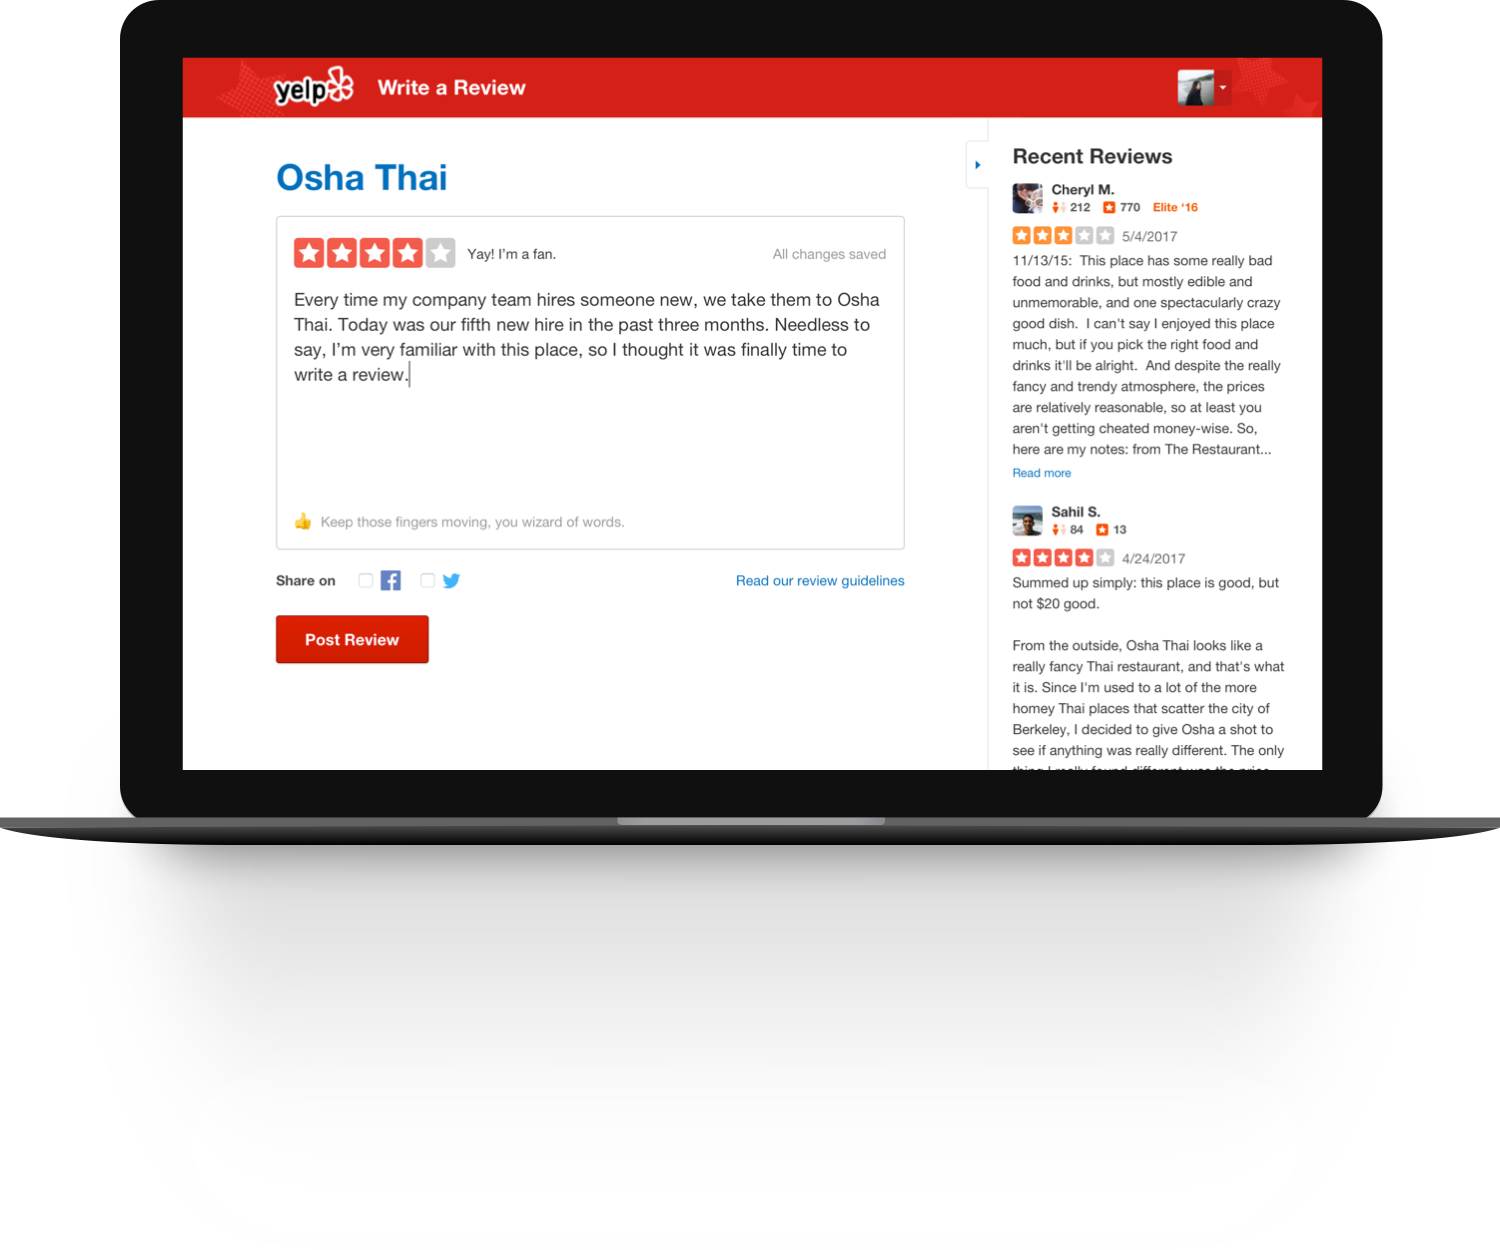
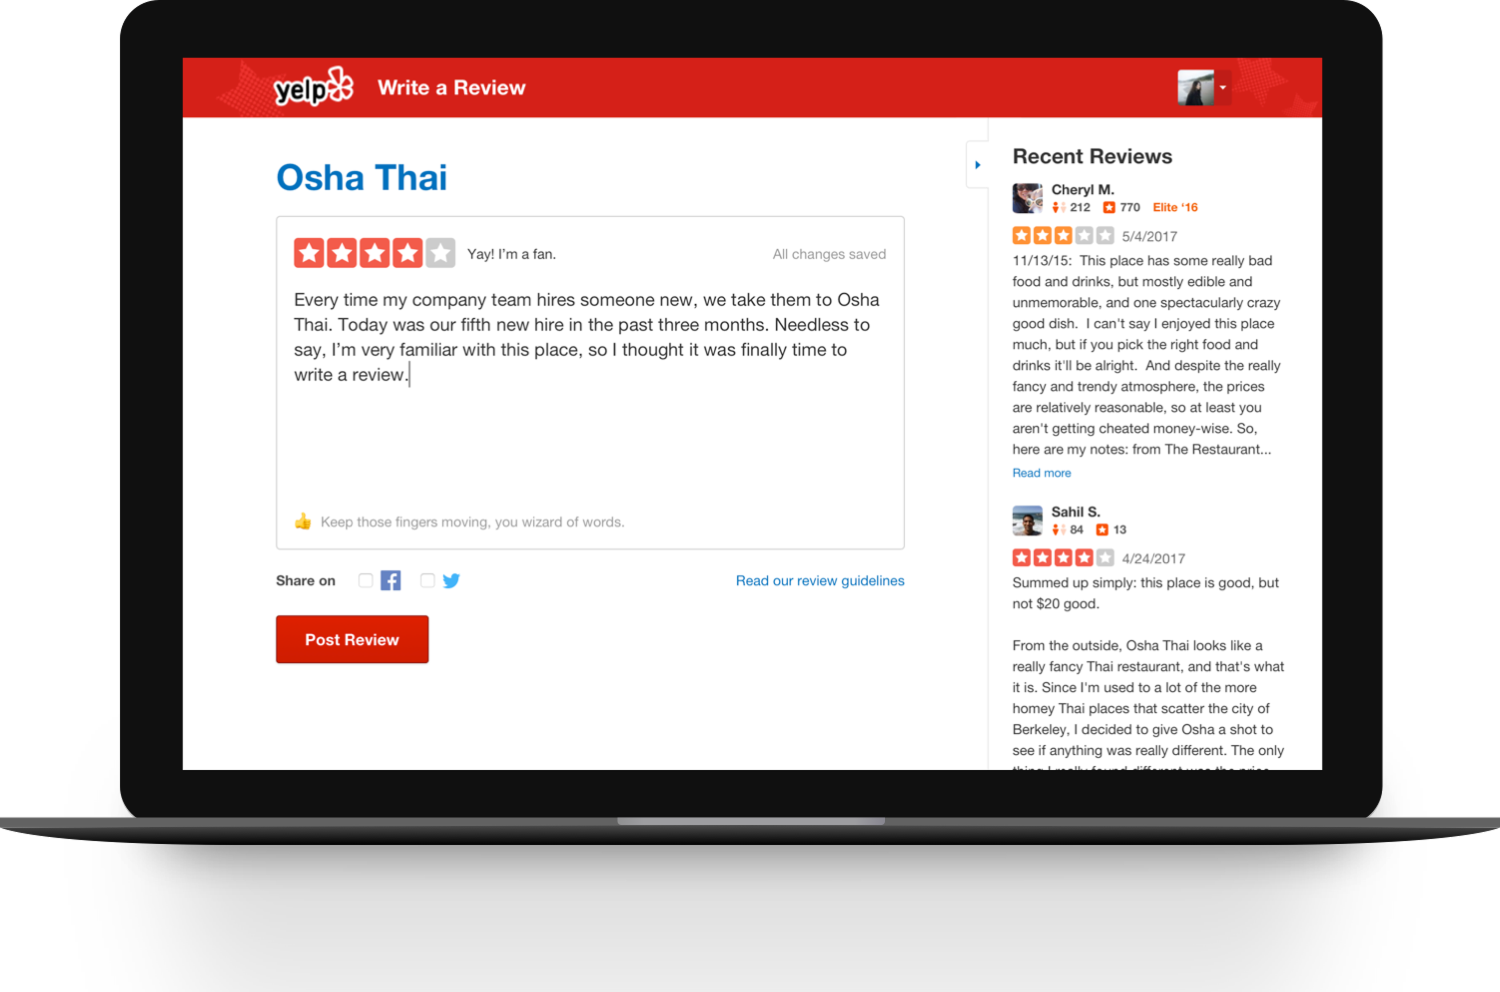
Fixed hero image

diff --git a/work/reviewcompose.html b/work/reviewcompose.html
@@ -31,10 +31,10 @@
 			}
 
 			.proj-header img {
-				display: block;
-				max-height: calc(100vh - 190px);
-				max-width: 90%;
-				margin-top: 200px;
+                display: block;
+                max-height: calc(100vh - 10px);
+                max-width: 70%;
+                margin-top: 150px;
 			}
 
 			.img-block {
@@ -50,7 +50,7 @@
 
 		<main>
 
-			<div class="proj-header">
+			<div class="proj-header" style="height: auto">
 				<img src="../assets/reviewcompose/hero.png">
 			</div>
 
